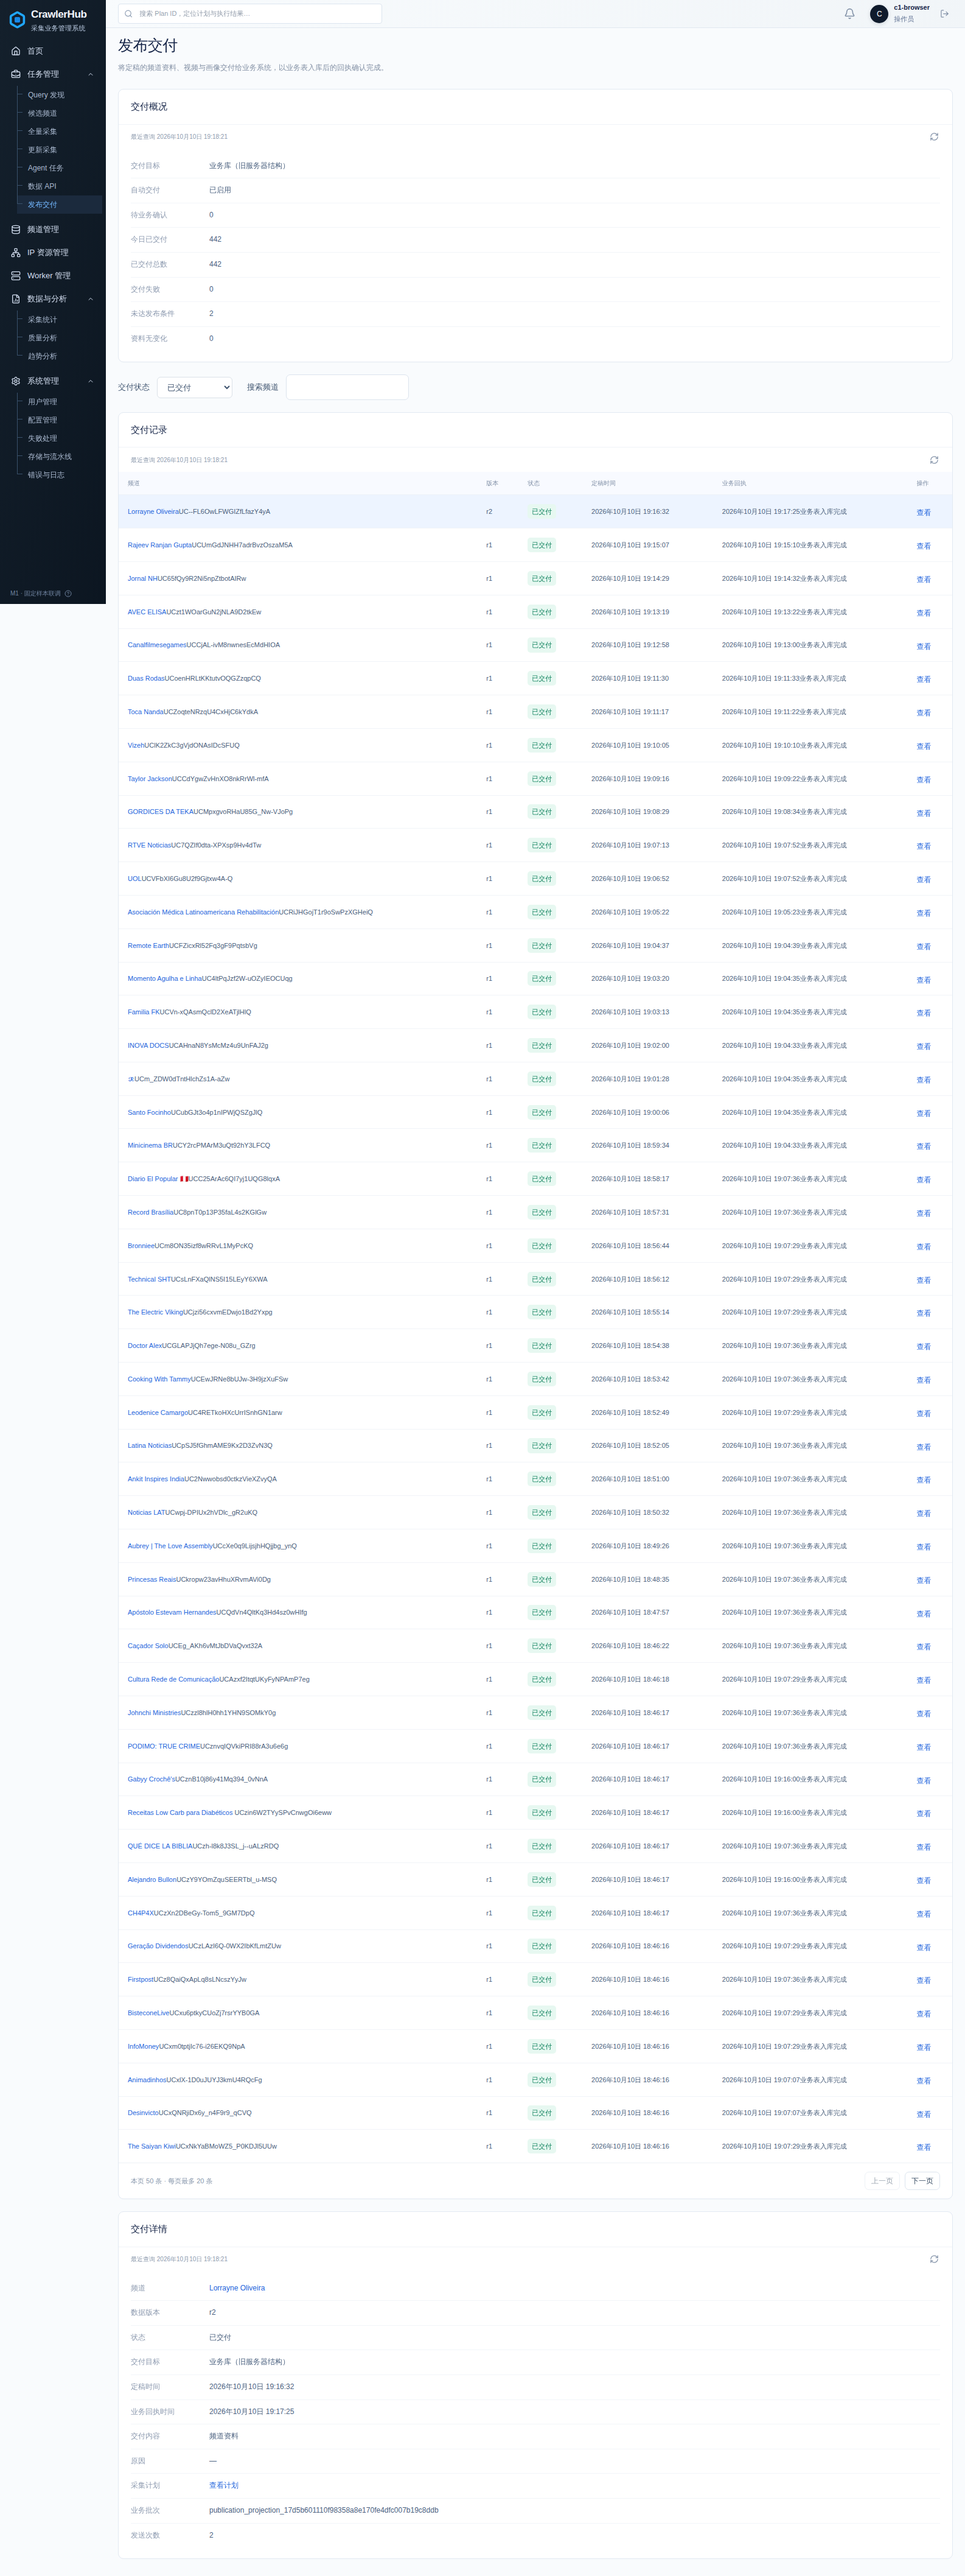
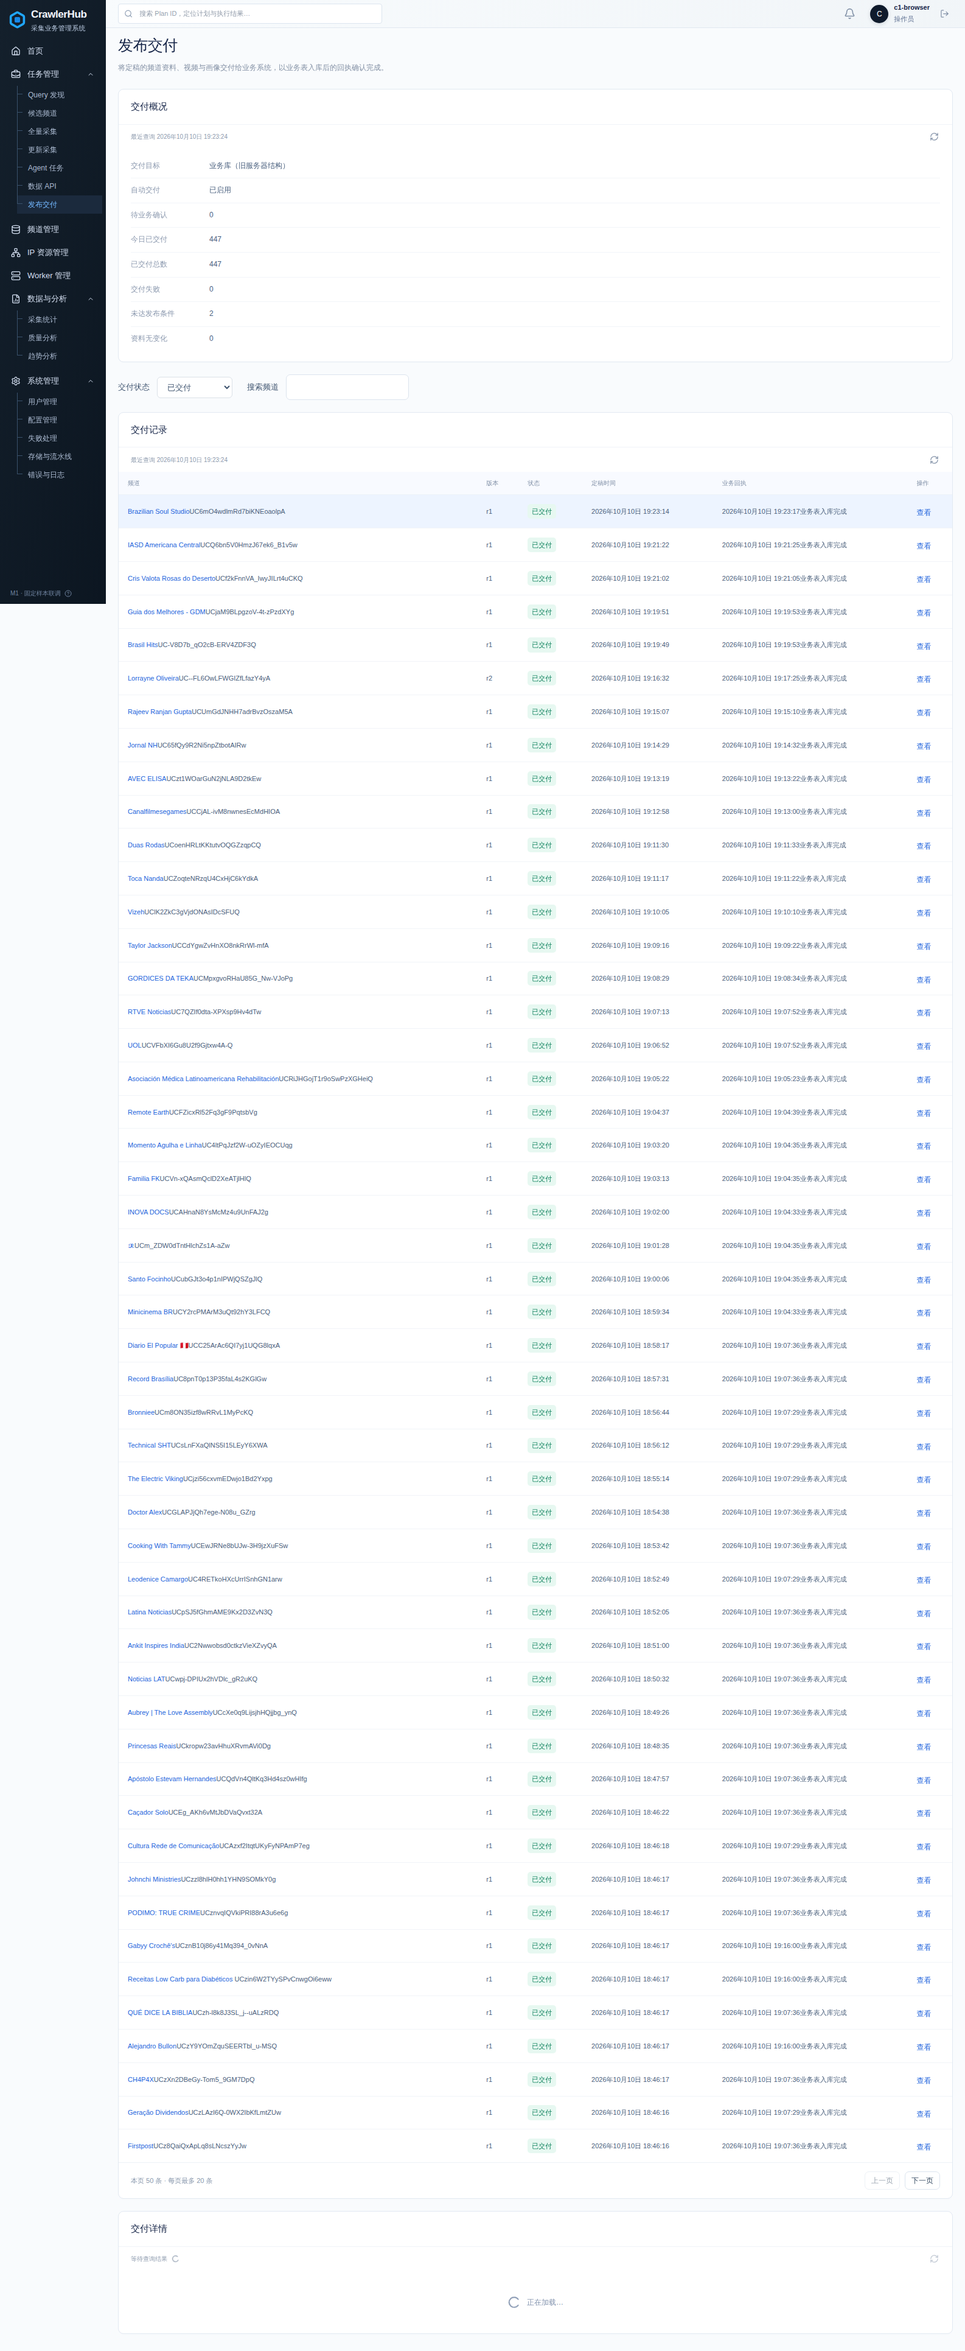
test(publication): wait for loaded mobile delivery data before layout checks

diff --git a/scripts/dev/verify-c1-browser.ts b/scripts/dev/verify-c1-browser.ts
@@ -11,7 +11,7 @@ try{
  await page.getByLabel('交付状态').selectOption('DELIVERED');await expect(page.getByLabel('交付状态')).toHaveValue('DELIVERED');await expect(page.locator('tbody tr').first()).toBeVisible();
  await page.getByRole('button',{name:'查看',exact:true}).first().click();await expect(page.getByRole('heading',{name:'交付详情',exact:true})).toBeVisible();await expect(page.getByText('业务表入库完成').first()).toBeVisible();const selected=new URL(page.url()).searchParams.get('delivery')!;await page.screenshot({path:'.runtime/c1/delivery-desktop.png',fullPage:true});
  await page.getByLabel('搜索频道').fill('C1-NO-MATCH');await expect(page.getByText('当前范围内没有交付记录')).toBeVisible();await page.getByLabel('搜索频道').fill('');
- await page.setViewportSize({width:390,height:844});await page.goto('http://127.0.0.1:18103/delivery');await expect(page.getByText('正在加载…',{exact:true})).toHaveCount(0);expect(await page.evaluate(()=>document.documentElement.scrollWidth<=innerWidth)).toBe(true);await page.screenshot({path:'.runtime/c1/delivery-mobile.png',fullPage:true});
+ await page.setViewportSize({width:390,height:844});await page.goto('http://127.0.0.1:18103/delivery');await expect(page.getByRole('heading',{name:'发布交付',exact:true})).toBeVisible();await expect(page.locator('tbody tr').first()).toBeVisible();await expect(page.getByText('正在加载…',{exact:true})).toHaveCount(0);await expect(page.getByRole('alert')).toHaveCount(0);expect(await page.evaluate(()=>document.documentElement.scrollWidth<=innerWidth)).toBe(true);await page.screenshot({path:'.runtime/c1/delivery-mobile.png',fullPage:true});
  const readonly=await browser.newPage({extraHTTPHeaders:{authorization:`Bearer ${reader}`}});
  await readonly.route(`**/v1/deliveries/${selected}`,async route=>{const response=await route.fetch();const json=await response.json();await route.fulfill({response,json:{...json,status:'PENDING'}});});
  await readonly.goto(`http://127.0.0.1:18103/delivery?delivery=${selected}`);await expect(readonly.getByRole('heading',{name:'交付详情',exact:true})).toBeVisible();await expect(readonly.locator('dd').filter({hasText:/^待业务确认$/})).toBeVisible();await expect(readonly.getByRole('button',{name:'重发原版本',exact:true})).toHaveCount(0);

diff --git a/docs/c1/README.md b/docs/c1/README.md
@@ -1,6 +1,6 @@
 # C1 发布交付上线与验收
 
-2026-10-10 已接通定稿交付链路，并完成真实全量、增量更新、接收端停机恢复和控制台验收。运行核验时间为北京时间 19:18:49，页面核验时间为 19:18:28；详细数据见 [evidence.json](evidence.json)。控制服务运行 `29938cb`，执行器运行 `2ed9fd0`，采集库 schema 31。
+2026-10-10 已接通定稿交付链路，并完成真实全量、增量更新、接收端停机恢复和控制台验收。运行核验时间为北京时间 19:18:49，页面核验时间为 19:23:32；详细数据见 [evidence.json](evidence.json)。控制服务运行 `29938cb`，执行器运行 `2ed9fd0`，采集库 schema 31。
 
 ## 业务库结构与发布规则
 
